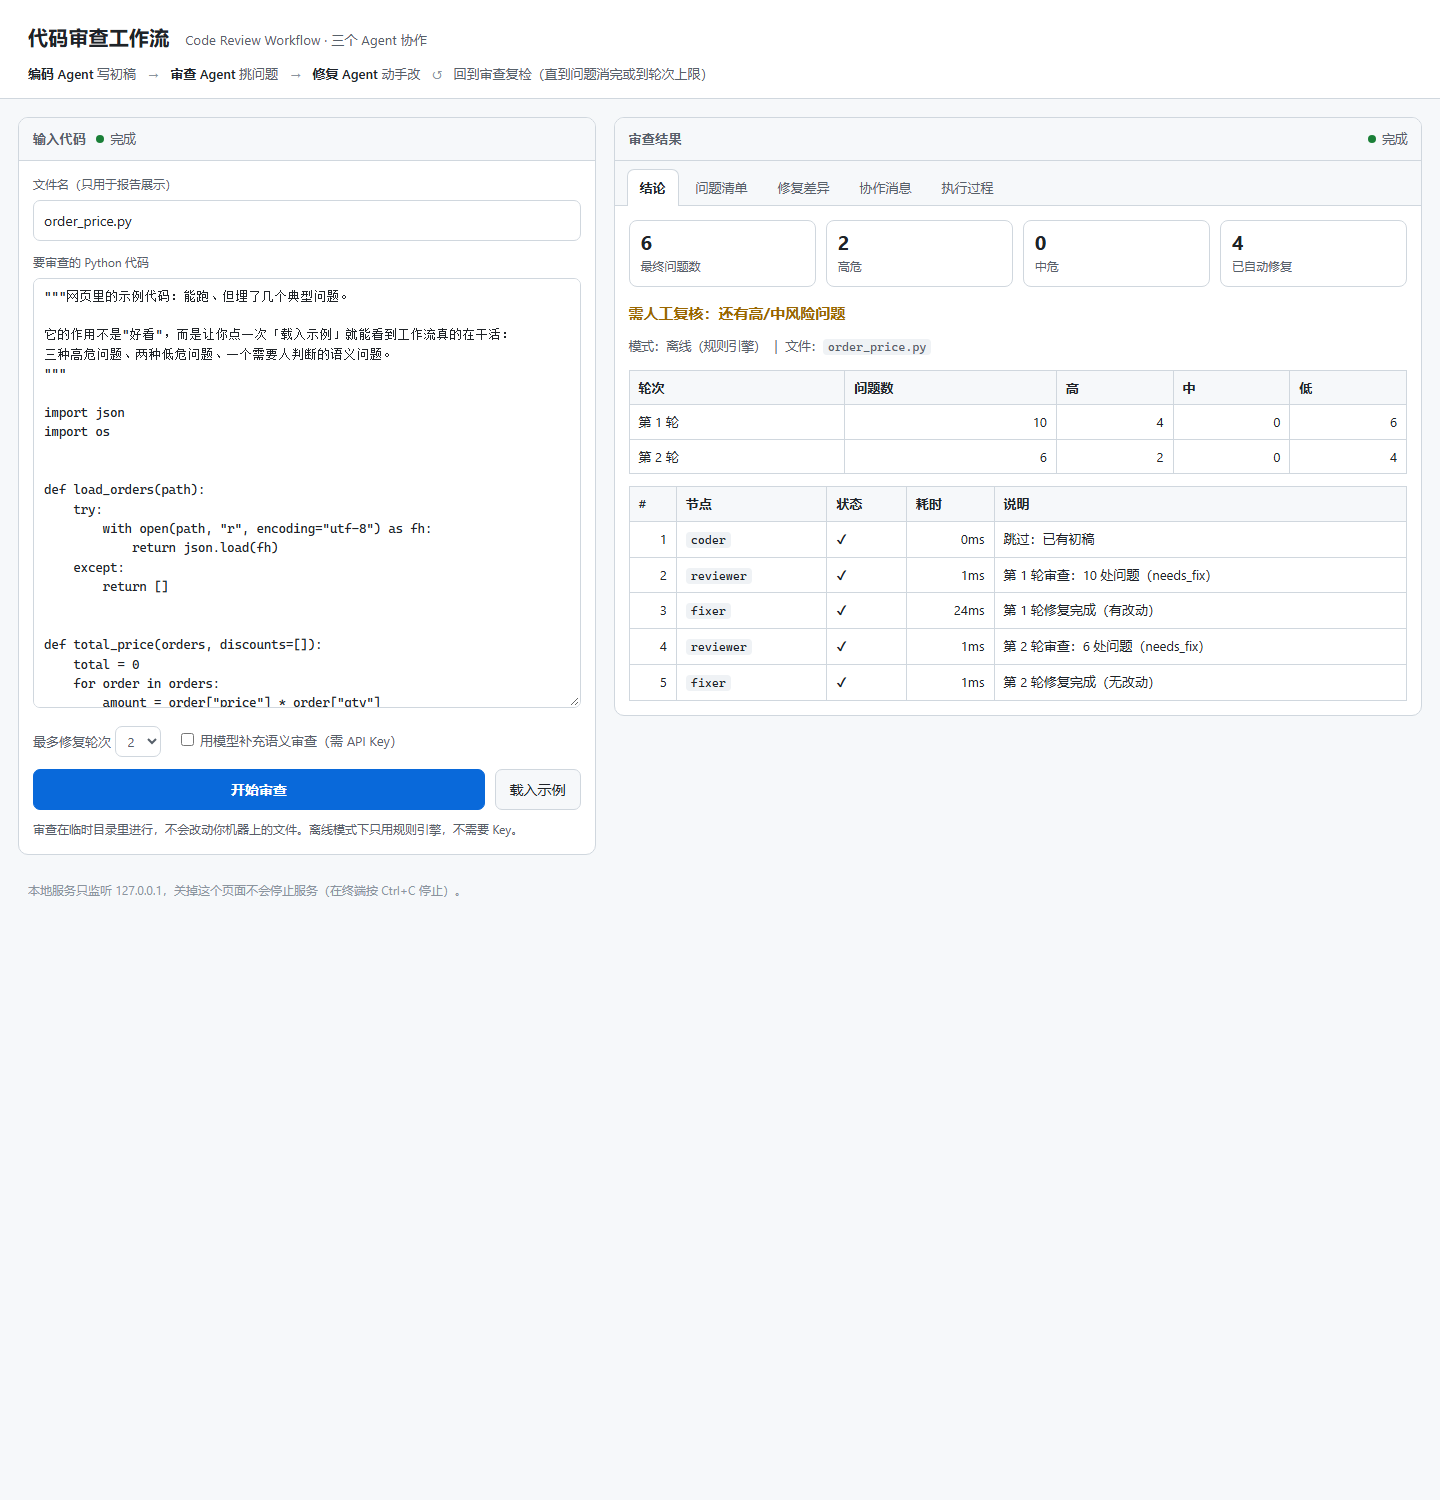
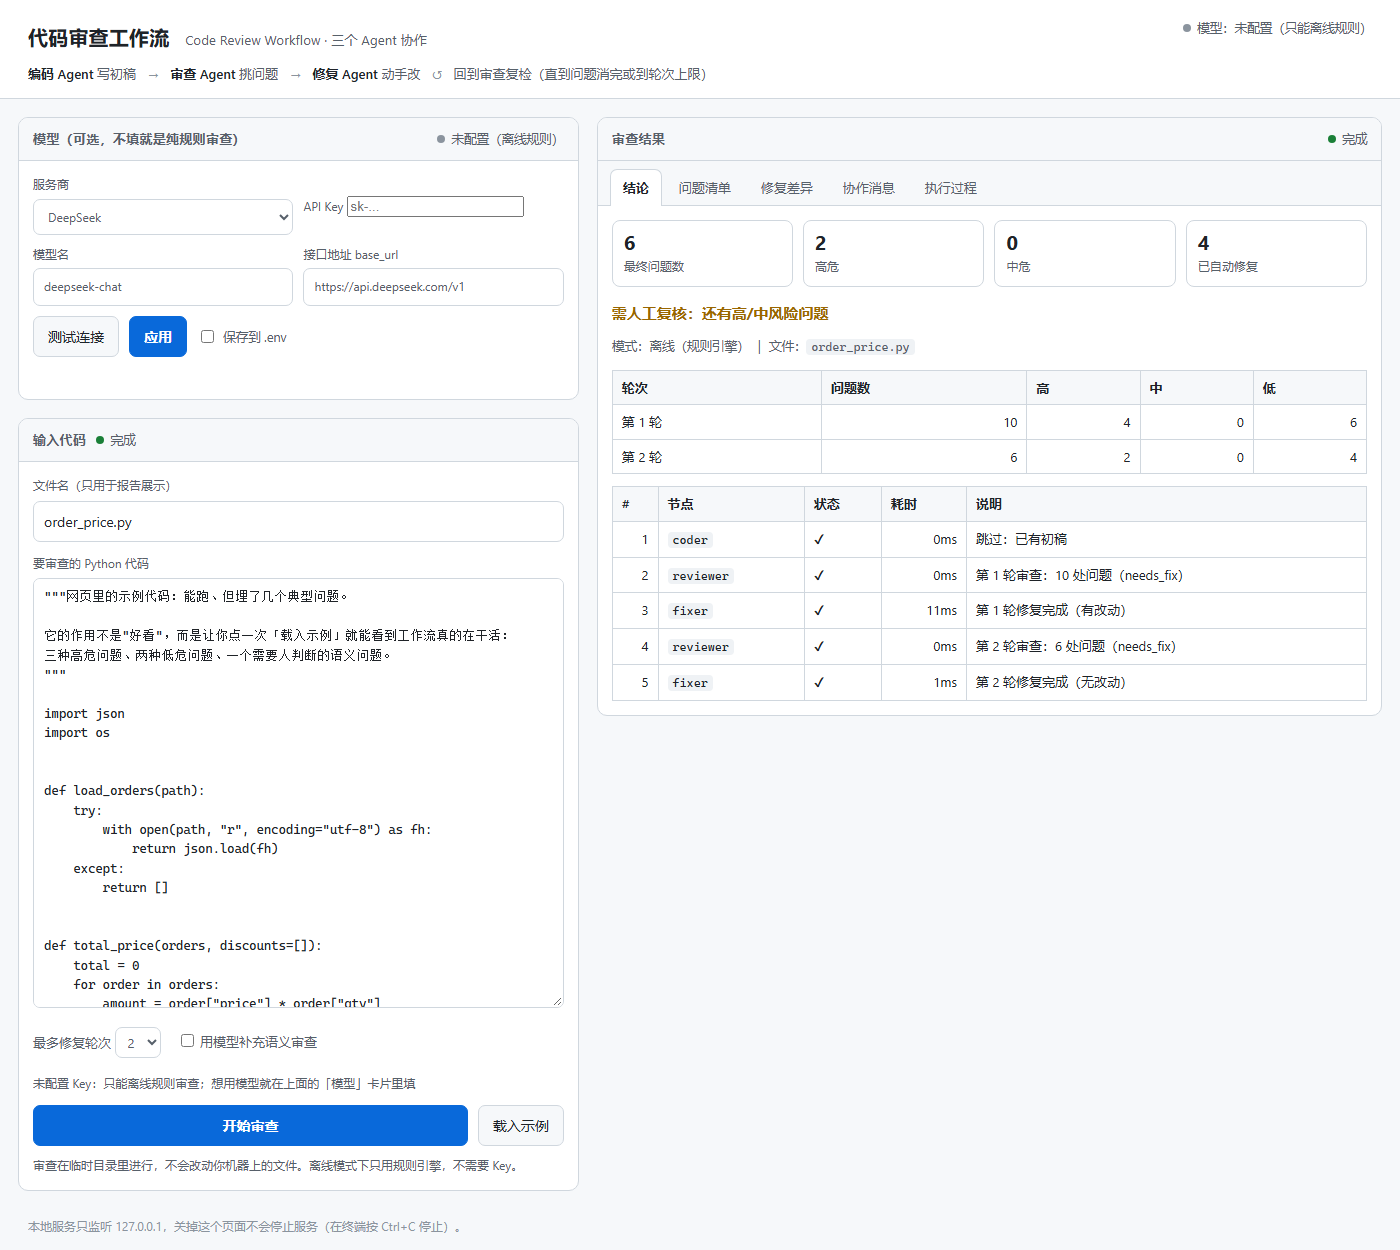
feat: 模型设置改为页面常驻卡片，页内直接填 Key（对齐项目 1 的侧栏习惯）

diff --git a/src/workflow_mvp/data/webui.html b/src/workflow_mvp/data/webui.html
@@ -89,6 +89,9 @@
   .msg { border-left: 3px solid var(--line); padding: 6px 10px; margin: 8px 0; font-size: 13px; }
   .msg .meta { font-size: 11.5px; color: var(--muted); }
   header { position: relative; }
+  .left { display: grid; gap: 18px; align-content: start; }
+  .left .card-b label.field select,
+  .left .card-b label.field input { margin-top: 4px; }
   .modelbar { position: absolute; right: 28px; top: 18px; display: flex; align-items: center; gap: 10px; }
   .modelbar button { padding: 5px 11px; font-size: 12.5px; }
   dialog {
@@ -121,12 +124,45 @@
   </div>
   <div class="modelbar">
     <span class="chip"><span class="dot" id="modelDot"></span><span id="modelBadge">模型：检查中…</span></span>
-    <button id="openModel">模型设置</button>
   </div>
 </header>
 
 <main>
   <!-- 左：输入 -->
+  <div class="left">
+  <section class="card">
+    <div class="card-h">
+      <h2>模型（可选，不填就是纯规则审查）</h2>
+      <span class="chip" style="margin-left:auto"><span class="dot" id="cfgDot"></span><span id="cfgBadge">检查中…</span></span>
+    </div>
+    <div class="card-b" style="display:grid;gap:10px">
+      <div class="row">
+        <label class="field" style="margin:0">服务商
+          <select id="cfgProvider"></select>
+        </label>
+        <label class="field" style="margin:0">API Key
+          <input type="password" id="cfgKey" spellcheck="false" placeholder="sk-...">
+        </label>
+      </div>
+      <div class="row">
+        <label class="field" style="margin:0">模型名
+          <input type="text" id="cfgModel" spellcheck="false">
+        </label>
+        <label class="field" style="margin:0">接口地址 base_url
+          <input type="text" id="cfgBaseUrl" spellcheck="false">
+        </label>
+      </div>
+      <div class="row" style="align-items:center">
+        <button id="cfgTest" class="shrink">测试连接</button>
+        <button id="cfgApply" class="shrink primary">应用</button>
+        <label class="chk" style="flex:1;display:flex;align-items:center;gap:6px;font-size:12.5px;color:var(--muted);margin:0">
+          <input type="checkbox" id="cfgSave"> 保存到 .env
+        </label>
+      </div>
+      <div id="cfgStatus" class="dlg-status"></div>
+    </div>
+  </section>
+
   <section class="card">
     <div class="card-h"><h2>输入代码</h2><span class="chip"><span class="dot" id="inputDot"></span><span id="inputHint">等待开始</span></span></div>
     <div class="card-b">
@@ -159,6 +195,8 @@
     </div>
   </section>
 
+  </div>
+
   <!-- 右：结果 -->
   <section class="card">
     <div class="card-h">
@@ -188,33 +226,7 @@
   </section>
 </main>
 
-<dialog id="modelDialog">
-  <div class="dlg">
-    <h3>模型设置</h3>
-    <p class="dlg-sub">接任意 OpenAI 兼容接口：选预设，或选「自定义」直接填 base_url。Key 只存在本机内存；勾选"保存到 .env"才会落盘。</p>
 
-    <label>服务商
-      <select id="cfgProvider"></select>
-    </label>
-    <label>接口地址 base_url
-      <input type="text" id="cfgBaseUrl" spellcheck="false" placeholder="留空使用该服务商默认地址">
-    </label>
-    <label>模型名
-      <input type="text" id="cfgModel" spellcheck="false" placeholder="留空使用默认模型">
-    </label>
-    <label>API Key
-      <input type="password" id="cfgKey" spellcheck="false" placeholder="sk-...">
-    </label>
-    <label class="chk"><input type="checkbox" id="cfgSave"> 保存到 .env（下次启动仍然生效）</label>
-
-    <div id="cfgStatus" class="dlg-status"></div>
-    <div class="dlg-actions">
-      <button type="button" id="cfgTest">测试连接</button>
-      <button type="button" id="cfgApply" class="primary">应用</button>
-      <button type="button" id="cfgClose">关闭</button>
-    </div>
-  </div>
-</dialog>
 
 <footer>
   本地服务只监听 127.0.0.1，关掉这个页面不会停止服务（在终端按 Ctrl+C 停止）。
@@ -232,6 +244,7 @@ function esc(text) {
 async function startReview() {
   const code = $("code").value;
   if (!code.trim()) { alert("先把代码贴上，或点「载入示例」"); return; }
+  if ($("useModel").checked && !(await applyConfig(true))) return;
   $("runBtn").disabled = true;
   $("placeholder").style.display = "none";
   $("views").style.display = "block";
@@ -437,10 +450,17 @@ async function loadConfig() {
       : "模型：未配置（只能离线规则）";
     $("modelDot").className = "dot " + (modelReady ? "ok" : "");
 
+    $("cfgBadge").textContent = modelReady ? `${cfg.provider_label} · ${cfg.key_hint}` : "未配置（离线规则）";
+    $("cfgDot").className = "dot " + (modelReady ? "ok" : "");
+    if (!window.__cfgInit) {
+      window.__cfgInit = true;
+      $("useModel").checked = modelReady;
+    }
+
     const hint = $("modelHint");
     hint.textContent = modelReady
       ? `已配置 ${cfg.provider_label} Key（${cfg.key_hint}）`
-      : "未配置 Key，只能离线规则审查；点右上角「模型设置」接入";
+      : "未配置 Key：只能离线规则审查；想用模型就在上面的「模型」卡片里填";
     hint.style.color = modelReady ? "var(--green)" : "var(--muted)";
 
     const select = $("cfgProvider");
@@ -517,26 +537,24 @@ async function testConfig() {
   }
 }
 
-$("openModel").addEventListener("click", async () => {
-  await loadConfig();
-  cfgStatus("");
-  $("modelDialog").showModal();
-});
+
 $("cfgProvider").addEventListener("change", () => fillPresetHints(true));
 $("cfgApply").addEventListener("click", () => applyConfig(false));
 $("cfgTest").addEventListener("click", testConfig);
-$("cfgClose").addEventListener("click", () => $("modelDialog").close());
 $("useModel").addEventListener("change", (event) => {
   if (event.target.checked && !modelReady) {
     event.target.checked = false;
-    alert("还没有可用的 API Key。\n\n把 .env.example 复制成 .env，填上 DEEPSEEK_API_KEY=sk-xxx，然后重启 start-web.bat。");
+    alert("还没有可用的 API Key。\n\n在左边「模型」卡片里选服务商、填 Key，点「应用」即可（也可以复制 .env.example 为 .env 再重启）。");
   }
 });
 loadConfig();
 
-/* 设置面板直开：?settings=1 */
+/* ?settings=1：把模型卡片滚到眼前并聚焦 Key 输入框 */
 if (new URLSearchParams(location.search).has("settings")) {
-  loadConfig().then(() => $("modelDialog").showModal());
+  loadConfig().then(() => {
+    document.querySelector(".left").scrollIntoView({ behavior: "smooth", block: "start" });
+    $("cfgKey").focus();
+  });
 }
 
 /* 演示模式：地址后面加 ?demo=1，进页面自动载入示例并跑一遍 */

diff --git a/README.md b/README.md
@@ -98,7 +98,7 @@ python examples/custom_node.py  # 演示加一个"运行验证"节点
 
 两种方式，效果一样，任选其一。
 
-**方式 A：网页右上角「模型设置」（推荐，不用改文件）**
+**方式 A：网页上的「模型」卡片（推荐，不用改文件）**
 
 ![模型设置](docs/screenshot-settings.png)
 
@@ -121,7 +121,7 @@ python examples/custom_node.py  # 演示加一个"运行验证"节点
 
 | 方式 | 命令 / 代码 | 适用场景 |
 |------|-------------|----------|
-| 网页界面 | `python main.py web` | 贴代码就看结果，右上角可直接换模型/填 Key |
+| 网页界面 | `python main.py web` | 贴代码就看结果，左上方卡片可直接换模型/填 Key |
 | 命令行 | `python main.py run ...` | 日常审查、批量处理 |
 | 当作库 | `build_review_workflow(provider, workspace)` | 嵌进自己的工具链 / Web 服务 |
 | 单个组件 | `review.rules.analyze(source)` | 只要静态检查，不要工作流 |
@@ -306,7 +306,7 @@ python -m unittest discover -s tests -v
 能，而且这是设计选择。审查用的 12 条规则基于 Python 的 AST，是算出来的结论，不依赖模型；修复也只做"改法唯一"的机械修改。模型只在勾选/去掉 `--offline` 时参与，用来补充语义问题。所以没有 Key 时你得到的是"确定的、可复现的"结果。
 
 **API Key 填在哪里？**
-两个地方都行：网页右上角「模型设置」直接填（只在内存，勾选后写 `.env`），或手写项目根目录的 `.env`。网页顶部会显示当前模型状态；没配时勾选"用模型"会被拦下并给出 `.env` 路径。
+两个地方都行：网页上的「模型」卡片直接填（只在内存，勾选后写 `.env`），或手写项目根目录的 `.env`。网页顶部会显示当前模型状态；没配时勾选"用模型"会被拦下并给出 `.env` 路径。
 
 **离线模式的"编码 Agent"是不是假的？**
 它从内置模板生成一份**明确带缺陷**的初稿，目的是让审查与修复有东西可处理。真实编码请接模型（`--provider`）。这一点在报告和代码注释里都写明了，没有伪装成模型输出。
